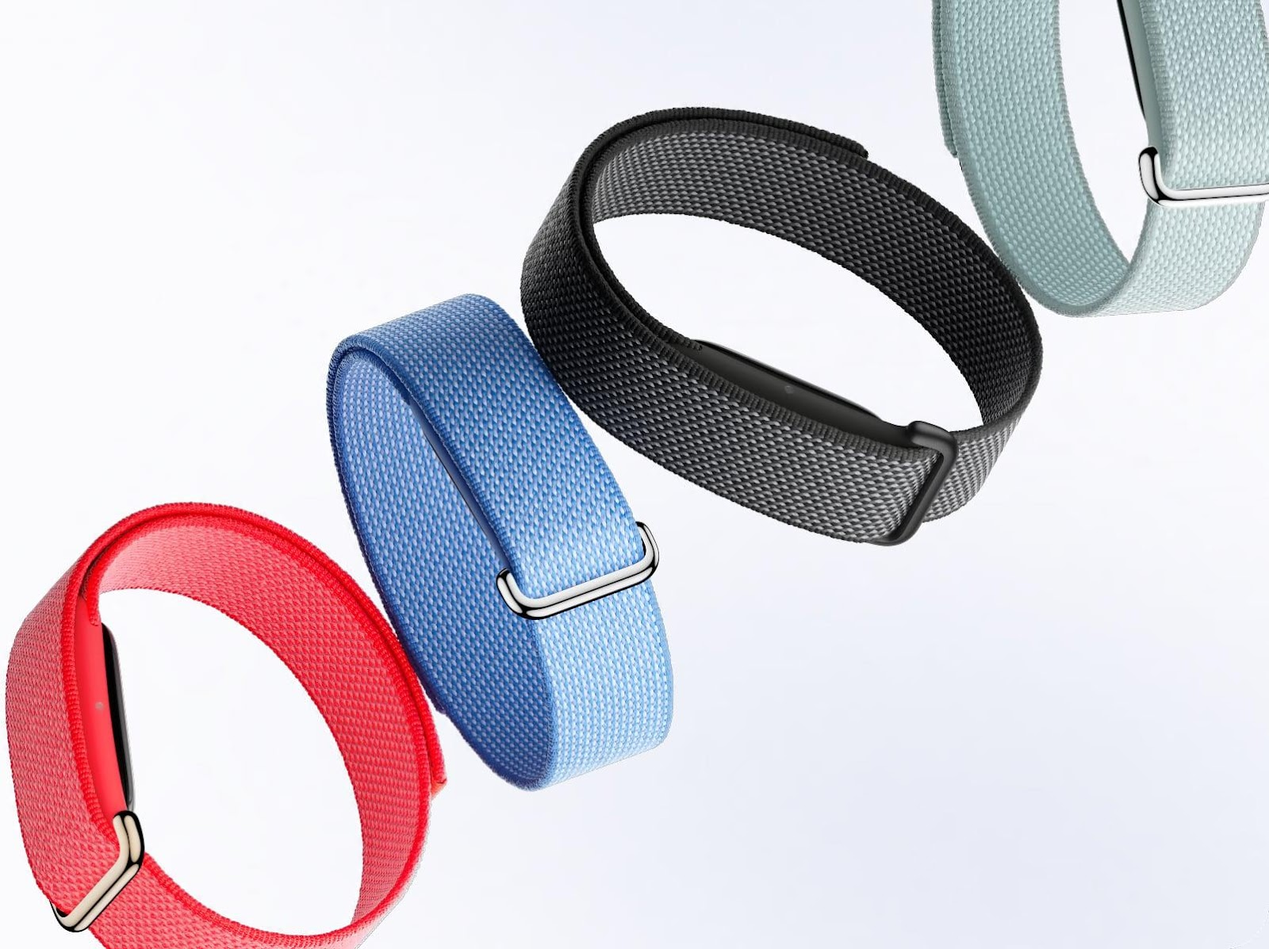
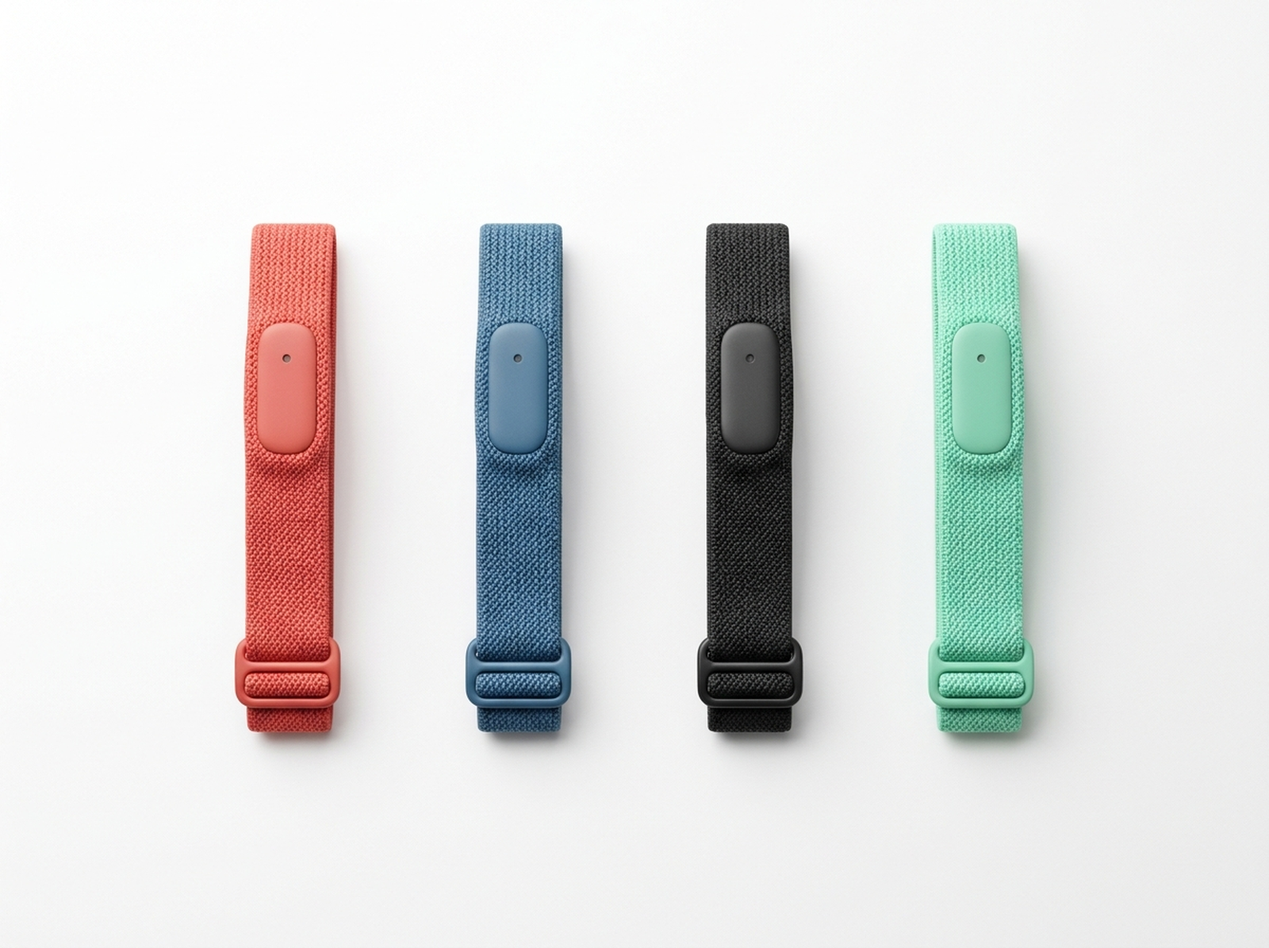
GA: no hardcoded Stitch IDs — STITCH_PROJECT_ID/STITCH_DESIGN_SYSTEM_ID become configure.sh placeholders, Antigravity bootstraps the design system from DESIGN.md; generated product render + neutral copy; fictional-retailer footer; configure.sh accepts repeated --set

diff --git a/templates/index.html b/templates/index.html
@@ -156,15 +156,15 @@
 <span class="text-label-sm font-label-sm text-on-surface">New &bull; Partner Forum 2026 Giveaway</span>
 </div>
 <h1 class="text-display-hero font-display-hero text-on-surface tracking-tight">Google Fitbit Air</h1>
-<p class="text-headline-sm font-headline-sm text-on-surface">Lighter gets mightier.</p>
-<p class="text-body-lg text-on-surface-variant">Comfortable 24/7 tracking, powerful sensors, and up to a week of battery, with personalized Google Health Coach built with Gemini.</p>
+<p class="text-headline-sm font-headline-sm text-on-surface">Screenless. Effortless.</p>
+<p class="text-body-lg text-on-surface-variant">A soft woven fabric band with no screen: all-day activity and sleep tracking, with insights in the companion app.</p>
 <div class="flex items-center gap-6 pt-2">
-<span class="text-headline-md font-headline-md text-on-surface">From $99.99</span>
+<span class="text-headline-md font-headline-md text-on-surface">Available in 4 colours</span>
 <button class="bg-primary hover:bg-[#1557B0] text-on-primary font-label-lg px-8 py-3 rounded-full transition-all duration-200 shadow-sm active:scale-98">Add to Bag</button>
 </div>
 </div>
 <div class="relative w-full md:w-1/2 h-[380px] rounded-xl overflow-hidden flex items-center justify-center bg-white">
-<img src="/static/images/fitbit-air.png" alt="Official Google Store photo of Google Fitbit Air woven fabric bands" class="w-full h-full object-cover"/>
+<img src="/static/images/fitbit-air.png" alt="Google Fitbit Air woven fabric bands (product render)" class="w-full h-full object-cover"/>
 </div>
 </section>
 <!-- Product Grid Section -->
@@ -185,15 +185,15 @@
 <!-- Product Card 0: Google Fitbit Air -->
 <div class="bg-surface-container-low rounded-xl border border-outline-variant p-6 flex flex-col justify-between hover:border-outline transition-all duration-200 group">
 <div class="h-64 rounded-lg overflow-hidden relative mb-6 flex items-center justify-center bg-white">
-<img src="/static/images/fitbit-air.png" alt="Official Google Store photo of Google Fitbit Air" class="absolute inset-0 w-full h-full object-cover group-hover:scale-105 transition-transform duration-300"/>
+<img src="/static/images/fitbit-air.png" alt="Google Fitbit Air (product render)" class="absolute inset-0 w-full h-full object-cover group-hover:scale-105 transition-transform duration-300"/>
 </div>
 <div class="flex flex-col gap-2">
 <span class="text-label-sm font-label-sm text-on-surface-variant">Fitness Tracker Band</span>
 <h3 class="text-headline-sm font-headline-sm text-on-surface">Google Fitbit Air</h3>
-<p class="text-body-sm text-on-surface-variant">Lighter gets mightier. Screenless 24/7 tracking and up to a week of battery, with Google Health Coach built with Gemini.</p>
+<p class="text-body-sm text-on-surface-variant">A screenless woven fabric band for all-day activity and sleep tracking.</p>
 </div>
 <div class="flex items-center justify-between mt-6 pt-4 border-t border-outline-variant">
-<span class="text-label-lg font-label-lg text-on-surface">From $99.99</span>
+<span class="text-label-lg font-label-lg text-on-surface">4 colours</span>
 <button class="bg-surface border border-outline-variant hover:border-primary text-primary px-4 py-2 rounded-full text-label-md font-label-md transition-all">Add to Bag</button>
 </div>
 </div>
@@ -280,7 +280,7 @@
 <div class="flex flex-col md:flex-row justify-between items-center w-full px-space-xl py-space-xl max-w-[1440px] mx-auto gap-6">
 <div class="flex flex-col md:flex-row items-center gap-6">
 <span class="text-headline-sm font-headline-sm font-bold text-primary dark:text-inverse-primary">AuraTech</span>
-<span class="text-body-sm text-on-surface-variant">© 2026 AuraTech Inc. All rights reserved.</span>
+<span class="text-body-sm text-on-surface-variant">© 2026 AuraTech Inc. All rights reserved. AuraTech is a fictional retailer created for a demo; product names are trademarks of their respective owners.</span>
 </div>
 <div class="flex flex-wrap justify-center gap-space-lg">
 <a class="text-body-sm text-on-surface-variant hover:text-primary transition-colors" href="#">Privacy Policy</a>

diff --git a/templates/poll.html b/templates/poll.html
@@ -279,7 +279,7 @@
 <div class="flex flex-col md:flex-row justify-between items-center w-full px-space-xl py-space-xl max-w-[1440px] mx-auto gap-4">
 <div class="flex flex-col md:flex-row items-center gap-4 text-center md:text-left">
 <span class="text-headline-sm font-headline-sm font-bold text-primary">AuraTech</span>
-<span class="text-body-sm font-body-sm text-on-surface-variant">© 2026 AuraTech Inc. All rights reserved.</span>
+<span class="text-body-sm font-body-sm text-on-surface-variant">© 2026 AuraTech Inc. All rights reserved. AuraTech is a fictional retailer created for a demo; product names are trademarks of their respective owners.</span>
 <span class="hidden md:inline text-outline-variant">|</span>
 <span id="live-event-feed" class="text-body-sm font-body-sm text-on-surface-variant italic">Scan the QR code or click any role card to cast a live vote.</span>
 </div>

diff --git a/templates/vote.html b/templates/vote.html
@@ -94,7 +94,7 @@
 
 <footer class="bg-surface-container-low border-t border-outline-variant py-4 px-5 text-center text-xs text-on-surface-variant">
   <div class="max-w-[640px] mx-auto flex items-center justify-between">
-    <span>© 2026 AuraTech Inc.</span>
+    <span>© 2026 AuraTech Inc. · fictional retailer (demo)</span>
     <span id="footer-total-votes" class="font-semibold text-primary">0 total votes</span>
   </div>
 </footer>

diff --git a/.agent/rules/auratech-architecture.md b/.agent/rules/auratech-architecture.md
@@ -1,16 +1,18 @@
 # AuraTech Workspace Architecture, Jira Lifecycle & Speed Execution Rules
 
 ## 0. Placeholders & Credentials Policy (READ FIRST)
-- This repository ships WITHOUT personal information. The only user-specific value is the placeholder `<YOUR_GCP_PROJECT_ID>` (set with `./configure.sh`).
-- **Stitch needs NO configuration**: this repository uses the shared Stitch project `11024850840388252926` with design system `assets/e0fecde15a2549a9b793168efec1fa4f` (AuraTech Minimal Hardware). Never create a new Stitch project or design system and never ask the user for Stitch IDs; only the Stitch API key lives in the user's local `mcp_config.json` (README Step 2).
-- **Stitch hard-stop (no silent fallback)**: before `generate_screen_from_text`, run the pre-flight `get_project` with `name: "projects/11024850840388252926"`. If it (or the generation) fails with *permission denied* / *not found*, STOP immediately and tell the user: (a) run `git pull` (a stale checkout may carry an old project ID) and (b) make sure the Google account that created the Stitch API key in `mcp_config.json` has access to the shared project (README → Troubleshooting). NEVER call `create_project`, NEVER use `list_projects` to pick another project, NEVER generate in any `projectId` other than `11024850840388252926`, even if the user says "just continue" — ask them to fix access first.
+- This repository ships WITHOUT personal information. The user-specific values are the `<YOUR_...>` placeholders for `GCP_PROJECT_ID`, `STITCH_PROJECT_ID` and `STITCH_DESIGN_SYSTEM_ID` (filled by `./configure.sh`, stored in `~/.auratech/`, never committed).
+- **Stitch = the user's OWN project**: `<YOUR_STITCH_PROJECT_ID>` is the Stitch project the user created in the Stitch UI (README Step 2). Never ask for or use anybody else's project. Only the Stitch API key lives in the user's local `mcp_config.json`.
+- **Stitch design system bootstrap (first run only)**: if `STITCH_DESIGN_SYSTEM_ID` is not set yet (the `designSystem` value in Section 1 still reads as an unfilled `<YOUR_...>` placeholder / `./configure.sh --show` says `<empty>`), create it from the repository's `DESIGN.md` before any screen generation: (1) `upload_design_md` with `projectId` = `<YOUR_STITCH_PROJECT_ID>` and `designMdBase64` = base64 of `DESIGN.md`; (2) `create_design_system_from_design_md` with the `selectedScreenInstance` returned by step 1; (3) read the new design system id (`assets/...`) from the response or `get_project`, save it with `./configure.sh --set STITCH_DESIGN_SYSTEM_ID=assets/...`, and continue with the filled value. Then, if the project has no screens yet, generate the two baseline context screens with `generate_screen_from_text` (design system = the new id, `deviceType` `DESKTOP`): *"AuraTech storefront: header `AuraTech` wordmark + nav Store | Fitbit | Wearables | Accessories | Live Role Poll | Support, hero for Google Fitbit Air, 3-column product grid, minimal footer"* and *"AuraTech Live Role Poll: same header, PARTNER FORUM 2026 eyebrow, QR card, horizontal bar results, minimal footer"*. Never call `create_project` and never create a second design system once one is saved.
+- **Stitch hard-stop (no silent fallback)**: before `generate_screen_from_text`, run the pre-flight `get_project` with `name: "projects/<YOUR_STITCH_PROJECT_ID>"`. If it (or the generation) fails with *permission denied* / *not found*, STOP immediately and tell the user: (a) run `git pull` (a stale checkout may carry an old project ID) and (b) make sure `STITCH_PROJECT_ID` (`./configure.sh --show`) is the project of the SAME Google account that created the Stitch API key in `mcp_config.json` (README → Troubleshooting). NEVER call `create_project`, NEVER use `list_projects` to pick another project, NEVER generate in any `projectId` other than `<YOUR_STITCH_PROJECT_ID>`, even if the user says "just continue" — ask them to fix access first.
 - **Jira needs NO configuration**: the user's Jira MCP is already connected in Antigravity. `{TICKET_KEY}` below is NOT a placeholder to fill; it is the key of the Jira ticket you discover at runtime (Section 2). Never ask the user for a Jira project key or ticket key.
-- Before using any of them, check whether it is still an unfilled `<YOUR_...>` placeholder. If it is, STOP and ask the user for their own value, pointing to README Step 4 (Google Cloud). Never invent IDs. Once the user provides it, save it with `./configure.sh --set GCP_PROJECT_ID=<id>`. This stores the value outside the repo (`~/.auratech/`) and fills `.agent/rules/`, `.agent/skills/`, the `Dockerfile` and the scripts. Do not hand-edit placeholders and never commit the filled values.
+- Before using any of them, check whether it is still an unfilled `<YOUR_...>` placeholder. If it is, STOP and ask the user for their own value, pointing to README Step 2 (Stitch) or Step 4 (Google Cloud) — except `<YOUR_STITCH_DESIGN_SYSTEM_ID>`, which you bootstrap yourself (above). Never invent IDs. Once the user provides it, save it with `./configure.sh --set GCP_PROJECT_ID=<id>`. This stores the value outside the repo (`~/.auratech/`) and fills `.agent/rules/`, `.agent/skills/`, the `Dockerfile` and the scripts. Do not hand-edit placeholders and never commit the filled values.
 - NEVER write credentials into the repository: no Jira/Atlassian tokens, no Stitch API keys, no OAuth tokens, no personal emails or account names. Credentials live only in the user's local Antigravity `mcp_config.json` and in `gcloud`. If a connection fails, give the user the how-to from the README and ask them to fix it with their own account.
 
 ### README bootstrap tasks (when the user asks for them)
 - **Step 1 — Create the Jira ticket** (only if the user asks): list the user's Jira projects via the Jira MCP; if there is exactly one use it, otherwise ask which one. Create an issue with the Summary and Description of `docs/JIRA_TICKET.md`, assign it to the current user (status To Do). Nothing to save: the ticket is discovered at runtime.
-- **Step 5 — Baseline deploy**: run `./deploy.sh` and `./mark-baseline.sh`, then verify `/` 200, `/poll` 200, `/campaign` 404. The Stitch project is already configured (shared); do NOT create one.
+- **Step 2 — Stitch bootstrap** (when the user says *"bootstrap my Stitch project"* or on the first ticket run): apply the design-system bootstrap above.
+- **Step 5 — Baseline deploy**: run `./deploy.sh` and `./mark-baseline.sh`, then verify `/` 200, `/poll` 200, `/campaign` 404.
 
 ---
 
@@ -20,8 +22,8 @@ You are working in the **AuraTech — Official Google Hardware Partner** web app
 - **Google Cloud project**: `<YOUR_GCP_PROJECT_ID>`
 - **Jira**: via the user's Jira MCP (no config). Ticket `{TICKET_KEY}` = the assigned ticket whose summary contains "Google Fitbit Air Challenge" (created from `docs/JIRA_TICKET.md`)
 - **Cloud Run Service**: `partner-forum-2026` (deployed via `./deploy.sh`)
-- **Google Stitch `projectId` (for this repository)**: `"11024850840388252926"`
-- **Google Stitch `designSystem` (for this repository)**: `"assets/e0fecde15a2549a9b793168efec1fa4f"` (AuraTech Minimal Hardware)
+- **Google Stitch `projectId` (for this repository)**: `"<YOUR_STITCH_PROJECT_ID>"`
+- **Google Stitch `designSystem` (for this repository)**: `"<YOUR_STITCH_DESIGN_SYSTEM_ID>"`
 - **Google Stitch `modelId`**: `"GEMINI_3_8_FLASH"`
 - **`main.py`**: Core FastAPI server hosting the Storefront (`GET /`) and Live Audience Role Poll (`GET /poll`, `GET /vote`, `GET /admin`, `GET /api/qr`). Automatically mounts `campaign_router.py` if present.
 - **`templates/index.html`**: AuraTech Google Hardware Storefront (`Store | Fitbit | Wearables | Accessories | Live Role Poll | Support`).
@@ -43,10 +45,10 @@ Whenever the user asks you to work on the assigned Jira ticket (`{TICKET_KEY}` /
 ### Phase 1: Move Jira to `In Progress`, Design in Google Stitch & Pause for Visual Approval (`frontend-skill` — Phase 1)
 1. **Transition Jira Ticket to `In Progress`**: Call the Atlassian / Jira MCP (`getTransitionsForJiraIssue` -> `transitionJiraIssue`) to move `{TICKET_KEY}` to **`In Progress`**.
 2. Read `.agent/skills/frontend-skill/SKILL.md` and inspect the `<head>`, `<header>`, and `<footer>` of `templates/poll.html` and `templates/index.html`.
-3. **Pre-flight**: call the Stitch MCP `get_project` with `name: "projects/11024850840388252926"` and confirm the response lists design system `assets/e0fecde15a2549a9b793168efec1fa4f`. On any error → STOP and apply the *Stitch hard-stop* rule from Section 0 (no `create_project`, no other `projectId`).
+3. **Pre-flight**: call the Stitch MCP `get_project` with `name: "projects/<YOUR_STITCH_PROJECT_ID>"` and confirm the response lists design system `<YOUR_STITCH_DESIGN_SYSTEM_ID>`. On any error → STOP and apply the *Stitch hard-stop* rule from Section 0 (no `create_project`, no other `projectId`).
 4. Call the **Google Stitch MCP** tool `generate_screen_from_text` using:
-   - `projectId`: `"11024850840388252926"`
-   - `designSystem`: `"assets/e0fecde15a2549a9b793168efec1fa4f"`
+   - `projectId`: `"<YOUR_STITCH_PROJECT_ID>"`
+   - `designSystem`: `"<YOUR_STITCH_DESIGN_SYSTEM_ID>"`
    - `deviceType`: `"DESKTOP"`
    - `modelId`: `"GEMINI_3_8_FLASH"`
    - Exact prompt from `.agent/skills/frontend-skill/SKILL.md` (preserving the exact AuraTech TopNavBar: `Store | Fitbit | Wearables | Accessories | Live Role Poll | Fitbit Campaign | Support` with NO dark top announcement bar and NO `"Catalog"` or `"Community Poll"` links).
@@ -57,7 +59,7 @@ Whenever the user asks you to work on the assigned Jira ticket (`{TICKET_KEY}` /
 Once the user approves the Stitch design proposal:
 1. **`backend-skill`** (`.agent/skills/backend-skill/SKILL.md`):
    - Create `campaign_router.py` in a single `write_to_file` call using the latest **`gemini-3.1-flash-image`** (Nano Banana 2) via non-blocking async `await client.aio.models.generate_content(...)` with an `asyncio.Semaphore(15)` guard.
-   - **Official product reference (Fitbit Air fidelity)**: pass `static/images/fitbit-air.png` (official Google Store photo) as `types.Part.from_bytes(..., mime_type="image/png")` together with the text prompt on EVERY generation, plus the fixed fidelity instruction (if Fitbit Air appears it must be exactly the reference: screenless woven fabric band, same shape and buckle, never a screen/watch face). Do NOT block or filter user prompts.
+   - **Official product reference (Fitbit Air fidelity)**: pass `static/images/fitbit-air.png` (the product reference render shipped in the repo — a generated image, not a Google asset) as `types.Part.from_bytes(..., mime_type="image/png")` together with the text prompt on EVERY generation, plus the fixed fidelity instruction (if Fitbit Air appears it must be exactly the reference: screenless woven fabric band, same shape and buckle, never a screen/watch face). Do NOT block or filter user prompts.
    - **Voting rules**: one ACTIVE vote per browser (`voterId`; re-voting moves the vote), and **no self-voting**: `generate` stores the creator's `voterId` as `creatorId`, `vote` returns 400 when the voter is the creator, `state` exposes only a boolean `isMine` (never `creatorId`). UI: `Your campaign` badge + disabled vote button on own cards.
    - **NO external database (no Firestore / no SQL)**: Store all state in Python memory (`CAMPAIGN_SUBMISSIONS`, `CAMPAIGN_VOTES`, `IMAGE_BLOBS`), starting at **0 submissions and 0 votes**, serving PNG bytes via `GET /api/campaign/images/{image_id}.png`.
 2. **`frontend-skill` (Phase 2)** (`.agent/skills/frontend-skill/SKILL.md`):
@@ -65,7 +67,7 @@ Once the user approves the Stitch design proposal:
    - Build `templates/campaign.html` using **100% of the exact `<head>`, `<header>` (TopNavBar), and `<footer>` copied verbatim from `templates/poll.html`** (with `Fitbit Campaign` active in `<nav>`) combined with the **`<main>` layout generated by Stitch**, wired to the real FastAPI endpoints (`/api/qr?format=png`, `POST /api/campaign/generate`, `GET /api/campaign/state`, `POST /api/campaign/vote`).
    - **Form Fields Rule (`Name` & `Company` — NO Placeholders)**: The image generation form MUST include two separate input fields: **Name** and **Company**, both strictly **WITHOUT placeholder text** (`placeholder` omitted or empty `""`, no pre-filled sample text).
    - **No idea-seeding anywhere**: no suggestion chips, no example prompts, no sample scenes, no placeholder text and no helper examples in the prompt studio (Name, Company and the campaign-scene textarea are completely blank). Attendees must come up with their own idea. The only image on the form is the official Fitbit Air product reference thumbnail. Leaderboard cards DO keep each submission's prompt caption.
-   - **Google Fitbit Air Challenge content**: title "Google Fitbit Air Challenge", subtitle "Create the next campaign visual for Google Fitbit Air. The most-voted image wins a Google Fitbit Air.", NO scene chips and NO device selector (the product is always Google Fitbit Air). Only official Google Store facts; never invent specs, colours or prices.
+   - **Google Fitbit Air Challenge content**: title "Google Fitbit Air Challenge", subtitle "Create the next campaign visual for Google Fitbit Air. The most-voted image wins a Google Fitbit Air.", NO scene chips and NO device selector (the product is always Google Fitbit Air). Keep product copy neutral and generic; never invent specs, colours or prices and never quote marketing claims.
    - Add ONLY the single `<a class="text-on-surface-variant hover:text-primary transition-colors text-label-md font-label-md" href="/campaign">Fitbit Campaign</a>` link inside `<nav>` right after `Live Role Poll` in `templates/index.html` and `templates/poll.html`, plus the hero CTA `Join the Fitbit Air Challenge` (→ `/campaign`) right after the hero `Add to Bag` button in `templates/index.html`. **NEVER alter anything else in `templates/index.html` or `templates/poll.html`.**
 3. **`deploy-skill`** (`.agent/skills/deploy-skill/SKILL.md`):
    - **NEVER create a `.venv` or run `pip install`** (all packages are pre-installed).

diff --git a/README.md b/README.md
@@ -8,9 +8,9 @@ Brownfield demo for **Google Antigravity**. You start from an existing web app: 
 
 1. **Developer → Antigravity**: the 4 demo prompts drive the whole session.
 2. **Antigravity → Jira Cloud** (Atlassian Rovo MCP): finds your *Google Fitbit Air Challenge* ticket and moves it **To Do → In Progress → Done**.
-3. **Antigravity → Google Stitch** (Stitch MCP): generates the campaign screen from the shared AuraTech design system and waits for your approval.
+3. **Antigravity → Google Stitch** (Stitch MCP): generates the campaign screen from the AuraTech design system in **your** Stitch project and waits for your approval.
 4. **`./deploy.sh` → Cloud Build → Cloud Run**: `gcloud run deploy --source` on the pre-cached base image from Artifact Registry; a new revision serves the Storefront `/`, the Live Role Poll `/poll` and the new `/campaign` (baseline tag + `./rollback.sh`).
-5. **Fitbit Air Challenge → Vertex AI Nano Banana** (`gemini-3.1-flash-image`): generates each attendee's campaign image from the official Fitbit Air reference photo, authenticated with the Cloud Run service identity.
+5. **Fitbit Air Challenge → Vertex AI Nano Banana** (`gemini-3.1-flash-image`): generates each attendee's campaign image from the Fitbit Air reference render, authenticated with the Cloud Run service identity.
 6. **Audience phones → Cloud Run** over HTTPS after scanning the QR on the stage screen: generate, vote, live leaderboard.
 
 📎 Session takeaways: [Partner Forum Platform Takeaways](https://docs.google.com/presentation/d/1N0hGiLZYCsasegMNkfARWSR2T4soOZ_k/edit)
@@ -21,12 +21,16 @@ Brownfield demo for **Google Antigravity**. You start from an existing web app: 
 > | Placeholder | What it is | Where you get it |
 > |---|---|---|
 > | `<YOUR_GCP_PROJECT_ID>` | Your Google Cloud project ID | [Cloud console](https://console.cloud.google.com/) → project picker |
+> | `<YOUR_STITCH_PROJECT_ID>` | Your own Stitch project | [stitch.withgoogle.com](https://stitch.withgoogle.com/) → **New project** → the digits in the URL `…/projects/<ID>` (Step 2) |
+> | `<YOUR_STITCH_DESIGN_SYSTEM_ID>` | The AuraTech design system inside that project | **Leave empty**: Antigravity creates it from `DESIGN.md` on the first run and saves it (`assets/…`) |
 >
-> **One command:** `./configure.sh` asks for your GCP project ID, stores it **outside the repo** in `~/.auratech/<repo>.env` and fills the placeholder. Re-run it any time; after a `git reset` it refills without questions.
+> **One command:** `./configure.sh` asks for your GCP project ID and Stitch project ID, stores them **outside the repo** in `~/.auratech/<repo>.env` and fills the placeholders. Re-run it any time; after a `git reset` it refills without questions.
 >
-> **Jira and Stitch need no configuration**: Antigravity finds your ticket through your Jira MCP, and the repo already points to the shared Stitch project [`11024850840388252926`](https://stitch.withgoogle.com/projects/11024850840388252926) with its design system `assets/e0fecde15a2549a9b793168efec1fa4f` (AuraTech Minimal Hardware). Ask the owner to share that Stitch project with your Google account.
+> **Jira needs no configuration**: Antigravity finds your ticket through your Jira MCP. **Stitch** is your own project (Step 2); nobody shares anything with you.
 >
 > Antigravity is instructed to **ask you** for any placeholder that is still empty. It never stores tokens or API keys in the repo.
+
+> **Demo code, not a product.** AuraTech is a fictional retailer. This is example code for a live demo: in-memory state, a public Cloud Run service, and **unauthenticated reset endpoints** (`POST /api/campaign/reset`, `POST /api/admin/reset-votes`) — anyone with the URL can wipe the boards. Do not use it in production.
 
 ## Prerequisites
 - [Google Antigravity](https://antigravity.google/) installed.
@@ -73,7 +77,8 @@ Official guide: [Get started with the Atlassian Rovo MCP server](https://support
    }
    ```
    Replace `<YOUR_STITCH_API_KEY>` **only in your local `mcp_config.json`**. Never put it in this repo.
-3. Refresh the MCP servers and test: *"List my Stitch projects."* You should see the shared project `11024850840388252926` (ask the owner to share it with you if not).
+3. Still in Stitch, create a project for this demo (**New project**, any name, e.g. *AuraTech*) and copy the digits from its URL `https://stitch.withgoogle.com/projects/<ID>` → `./configure.sh` (or `./configure.sh --set STITCH_PROJECT_ID=<ID>`). Leave the design system empty: Antigravity creates it from `DESIGN.md` on the first run.
+4. Refresh the MCP servers and test: *"List my Stitch projects."* Your new project must be in the list (the API key and the project must belong to the same Google account).
 
 Official guide: [Stitch MCP setup](https://stitch.withgoogle.com/docs/mcp/setup).
 
@@ -108,7 +113,7 @@ Do not continue until `check-cloud.sh` prints **🎉 All checks passed**.
 Useful docs: [Cloud Run deploy from source](https://cloud.google.com/run/docs/deploying-source-code) · [Public access / invoker IAM check](https://cloud.google.com/run/docs/securing/managing-access#invoker_check) · [Vertex AI image generation](https://cloud.google.com/vertex-ai/generative-ai/docs/image/overview).
 
 ## Step 5: Deploy the existing webpage to Cloud Run (baseline)
-The existing storefront and Live Role Poll already live as screens in the shared Stitch project `11024850840388252926`, with the AuraTech design system Antigravity will reuse for the new feature. Nothing to create in Stitch. Ask Antigravity:
+Optional but recommended once: *"Bootstrap my Stitch project"* — Antigravity uploads `DESIGN.md`, creates the AuraTech design system in your Stitch project, saves its id with `./configure.sh --set STITCH_DESIGN_SYSTEM_ID=…`, and generates the two baseline context screens (storefront, Live Role Poll). If you skip it, it happens automatically at the start of the ticket run. Then ask Antigravity:
 > *"Deploy the existing web with `./deploy.sh` and mark it as the baseline with `./mark-baseline.sh`."*
 
 Check the live URL printed by `deploy.sh`:
@@ -124,7 +129,7 @@ In Antigravity:
 
 Antigravity finds your "Google Fitbit Air Challenge" ticket, summarises it and asks whether to start. Say yes. It follows the 3-phase lifecycle in `.agent/rules/`:
 1. Moves the ticket to **In Progress**, generates the *Google Fitbit Air Challenge* screen in Stitch and **stops for your approval** (Step 7).
-2. After approval: builds `campaign_router.py` (Nano Banana with the official Fitbit Air reference image) and `templates/campaign.html`, deploys with `./deploy.sh`, and asks whether you're happy and want to close the ticket.
+2. After approval: builds `campaign_router.py` (Nano Banana with the Fitbit Air reference render) and `templates/campaign.html`, deploys with `./deploy.sh`, and asks whether you're happy and want to close the ticket.
 3. On your confirmation: comments the live URL on the ticket and moves it to **Done**.
 
 ## Step 7: Approve the Stitch UI
@@ -156,7 +161,7 @@ Then two manual steps (~20 s):
 1. **Jira**: move the *Google Fitbit Air Challenge* ticket back to **To Do** and delete the live-URL comment Antigravity left in Phase 3.
 2. **Antigravity**: start a **new chat** (same workspace). Stage screen tab: `<SERVICE_URL>/poll`.
 
-Optional: the Stitch screen generated in the previous session stays in the shared project; it does no harm (Antigravity generates a fresh one each run), delete it from the Stitch UI only if you want a tidy project.
+Optional: the Stitch screen generated in the previous session stays in your project; it does no harm (Antigravity generates a fresh one each run), delete it from the Stitch UI only if you want a tidy project.
 
 **Resetting the live boards only (presenter, no buttons in the UI on purpose):**
 ```bash
@@ -165,20 +170,20 @@ curl -s -X POST "$SERVICE_URL/api/admin/reset-votes"    # Live Role Poll back to
 curl -s -X POST "$SERVICE_URL/api/campaign/reset"       # Fitbit Air Challenge back to 0 images / 0 votes
 ```
 
-## Troubleshooting: Antigravity generated the screen in another Stitch project
-Symptom: the Stitch proposal shows `projects/<something else>/screens/...` instead of `projects/11024850840388252926/...`, or you cannot find the screen in the Stitch UI.
-Cause: the Stitch API key in `mcp_config.json` could not open `11024850840388252926` (stale checkout with an old project ID, or the key was generated under a Google account the project is not shared with), and Antigravity fell back to a new project.
-Fix (2 minutes), then start a **new chat**:
-1. `git pull` (or `./reset-demo.sh`) so `.agent/` carries the current project ID `11024850840388252926`.
-2. In Antigravity ask: *"List my Stitch projects."* → `11024850840388252926` must be in the list. If not: open [stitch.withgoogle.com](https://stitch.withgoogle.com) with the account the project is shared with, regenerate the API key there, paste it into `mcp_config.json`, refresh MCP servers, repeat.
-3. The repo rules now hard-stop instead of falling back: Antigravity will refuse to `create_project` or use another `projectId`.
+## Troubleshooting: Stitch pre-flight fails / screen generated in another project
+Symptom: Antigravity stops with *permission denied / not found* on `get_project`, or the proposal shows `projects/<something else>/screens/...`.
+Cause: `STITCH_PROJECT_ID` is empty, wrong, or belongs to a different Google account than the Stitch API key in `mcp_config.json`.
+Fix, then start a **new chat**:
+1. `./configure.sh --show` → `STITCH_PROJECT_ID` must be the digits of your project URL; fix with `./configure.sh --set STITCH_PROJECT_ID=<ID>`.
+2. In Antigravity ask: *"List my Stitch projects."* → your project must be in the list. If not, regenerate the API key in the Stitch UI **with the account that owns the project** and paste it into `mcp_config.json`.
+3. The repo rules hard-stop instead of falling back: Antigravity will refuse to `create_project` or use another `projectId`.
 
 ## Repository map
 | File | Purpose |
 |---|---|
 | `main.py` | FastAPI: storefront `/`, Live Role Poll `/poll` `/vote` `/admin`, QR `/api/qr`; auto-mounts `campaign_router.py` if present |
-| `templates/`, `static/` | Existing UI (`static/images/fitbit-air.png` = official Google Store photo, also the Nano Banana reference) |
-| `DESIGN.md` | AuraTech design system (reference copy of the one in the shared Stitch project) |
+| `templates/`, `static/` | Existing UI (`static/images/fitbit-air.png` = generated product render, also the Nano Banana reference) |
+| `DESIGN.md` | AuraTech design system — the source Antigravity uploads to **your** Stitch project to create the design system |
 | `docs/JIRA_TICKET.md` | The ticket Antigravity implements |
 | `setup.sh`, `Dockerfile.base`, `cloudbuild.base.yaml` | One-time GCP project setup + pre-cached base image (deploys in ~15–20 s) |
 | `deploy.sh`, `mark-baseline.sh`, `rollback.sh`, `reset-demo.sh` | Deploy, tag the clean baseline, restore it, full between-sessions reset |

diff --git a/.agent/skills/frontend-skill/SKILL.md b/.agent/skills/frontend-skill/SKILL.md
@@ -19,15 +19,16 @@ Use this skill whenever designing and building the frontend for the **Fitbit Emp
 ### Step 1.1: Inspect `templates/poll.html` and `templates/index.html`
 Read `templates/poll.html` (lines 1–165 and 275–295) and `templates/index.html` (lines 115–150) so you have the exact AuraTech `<head>` Tailwind configuration, `<header>` TopNavBar structure, and `<footer>`.
 
-### Step 1.2: Pre-flight — verify access to the shared Stitch project
-Call `get_project` with `name: "projects/11024850840388252926"`. The response must succeed and list the design system `assets/e0fecde15a2549a9b793168efec1fa4f`.
-If it fails (*permission denied*, *not found*): **STOP**. Tell the user to `git pull` (stale project ID) and to verify that the Google account that generated the Stitch API key in `mcp_config.json` can open the shared project (README → Troubleshooting). Do NOT call `create_project`, do NOT pick another project via `list_projects`, do NOT generate anywhere other than `11024850840388252926`.
+### Step 1.2: Pre-flight — verify the user's Stitch project and design system
+If `STITCH_DESIGN_SYSTEM_ID` is not set yet (the design system value below still reads as an unfilled `<YOUR_...>` placeholder), run the design-system bootstrap from `.agent/rules/auratech-architecture.md` Section 0 first (upload `DESIGN.md`, create the design system, save it with `./configure.sh --set STITCH_DESIGN_SYSTEM_ID=...`).
+Call `get_project` with `name: "projects/<YOUR_STITCH_PROJECT_ID>"`. The response must succeed and list the design system `<YOUR_STITCH_DESIGN_SYSTEM_ID>`.
+If it fails (*permission denied*, *not found*): **STOP**. Tell the user to check `./configure.sh --show` (`STITCH_PROJECT_ID` must be a project of the same Google account that generated the Stitch API key in `mcp_config.json`, README → Troubleshooting). Do NOT call `create_project`, do NOT pick another project via `list_projects`, do NOT generate anywhere other than `<YOUR_STITCH_PROJECT_ID>`.
 
 ### Step 1.3: Call Google Stitch MCP (`generate_screen_from_text`)
 Call `generate_screen_from_text` using the Stitch project for this repository:
 
-- **`projectId`**: `"11024850840388252926"`
-- **`designSystem`**: `"assets/e0fecde15a2549a9b793168efec1fa4f"` (AuraTech Minimal Hardware)
+- **`projectId`**: `"<YOUR_STITCH_PROJECT_ID>"`
+- **`designSystem`**: `"<YOUR_STITCH_DESIGN_SYSTEM_ID>"`
 - **`deviceType`**: `"DESKTOP"`
 - **`modelId`**: `"GEMINI_3_8_FLASH"`
 - **`prompt`**:
@@ -110,5 +111,5 @@ Use `replace_file_content` to insert ONLY the single `"Fitbit Campaign"` link ri
   ```html
   <a class="border border-primary text-primary hover:bg-primary hover:text-on-primary font-label-lg px-8 py-3 rounded-full transition-all duration-200" href="/campaign">Join the Fitbit Air Challenge</a>
   ```
-- **Product fidelity**: The official product image is `static/images/fitbit-air.png` (real Google Store photo). Use it for the "Official product reference" thumbnail in `campaign.html`. Never replace it with a generated image and never invent Fitbit Air specs, colours or prices (only: "Lighter gets mightier", 24/7 tracking, up to a week of battery, Google Health Coach built with Gemini, "From $99.99").
+- **Product fidelity**: the product reference image is `static/images/fitbit-air.png` (a generated render shipped in the repo). Use it for the "Official product reference" thumbnail in `campaign.html`. Never swap it for another image and never invent Fitbit Air specs, colours or prices — keep copy generic.
 - **STRICT BAN**: Do NOT change any other lines in `templates/index.html` or `templates/poll.html`!

diff --git a/docs/JIRA_TICKET.md b/docs/JIRA_TICKET.md
@@ -11,13 +11,13 @@ Launch the Google Fitbit Air Challenge — Campaign Studio & Real-Time Voting Le
 
 ## Description
 ### Context & Business Goal
-AuraTech (Official Google Hardware Partner) is launching the **Google Fitbit Air Challenge** for a live event with up to 300 concurrent attendees. Attendees scan a live QR code on the main stage screen, generate a campaign visual for Google Fitbit Air using Vertex AI Nano Banana (`gemini-3.1-flash-image`), and vote in real time. **The most-voted image wins a Google Fitbit Air.**
+AuraTech (a fictional Google hardware retailer) is launching the **Google Fitbit Air Challenge** for a live event with up to 300 concurrent attendees. Attendees scan a live QR code on the main stage screen, generate a campaign visual for Google Fitbit Air using Vertex AI Nano Banana (`gemini-3.1-flash-image`), and vote in real time. **The most-voted image wins a Google Fitbit Air.**
 
 ### Product Fidelity (Google Fitbit Air)
 - Page title "Google Fitbit Air Challenge"; subtitle "Create the next campaign visual for Google Fitbit Air. The most-voted image wins a Google Fitbit Air."
 - **No example prompts, suggestion chips, sample scenes or placeholder text anywhere**: attendees must come up with their own idea. No device selector either (the product is always Google Fitbit Air).
-- Every Nano Banana generation MUST receive the official Google Store photo `static/images/fitbit-air.png` as input reference image: if Fitbit Air appears it must be exactly that product (screenless woven fabric band, same shape and buckle; never a screen or watch face). Do not block user prompts.
-- Only official Google Store facts: "Lighter gets mightier", 24/7 tracking, up to a week of battery, Google Health Coach built with Gemini, "From $99.99".
+- Every Nano Banana generation MUST receive the product reference render `static/images/fitbit-air.png` as input reference image: if Fitbit Air appears it must be exactly that product (screenless woven fabric band, same shape and buckle; never a screen or watch face). Do not block user prompts.
+- Product copy stays neutral and generic: never invent specs, colours or prices and never quote marketing claims.
 
 ### Mandatory 3-Phase Execution Workflow (.agent/skills/)
 Follow `.agent/rules/auratech-architecture.md` and `.agent/skills/` in strict order:

diff --git a/.agent/skills/backend-skill/SKILL.md b/.agent/skills/backend-skill/SKILL.md
@@ -77,7 +77,7 @@ def _generate_fallback_png(prompt: str, author: str) -> bytes:
     return buf.getvalue()
 
 
-# Official Google Store photo of Google Fitbit Air, sent as reference image on EVERY generation
+# Product reference render of Google Fitbit Air (shipped in the repo), sent as reference image on EVERY generation
 REFERENCE_IMAGE_PATH = os.path.join("static", "images", "fitbit-air.png")
 try:
     with open(REFERENCE_IMAGE_PATH, "rb") as _f:
@@ -86,7 +86,7 @@ except OSError:
     REFERENCE_IMAGE_BYTES = b""
 
 FIDELITY_INSTRUCTION = (
-    "The attached image is the OFFICIAL Google Store product photo of Google Fitbit Air. "
+    "The attached image is the product reference for Google Fitbit Air. "
     "Whenever Google Fitbit Air appears in the generated image it MUST look exactly like the product in the "
     "reference image: a screenless woven fabric band with the same shape, texture, clasp and buckle. "
     "NEVER add a screen, display, watch face, digits or buttons to it and never invent a different Fitbit device. "
@@ -97,7 +97,7 @@ FIDELITY_INSTRUCTION = (
 async def _generate_fitbit_image_bytes(prompt: str, author: str) -> bytes:
     enhanced_prompt = (
         "Commercial marketing photography for the AuraTech Google Fitbit Air Challenge "
-        "(AuraTech is an official Google hardware partner). "
+        "(AuraTech is a fictional hardware retailer). "
         f"Campaign scene: {prompt}. Photorealistic, clean editorial lighting, 4:3 composition. "
         + FIDELITY_INSTRUCTION
     )
@@ -220,7 +220,7 @@ async def api_campaign_generate(request: Request):
         "name": name,
         "company": company,
         "author": author,
-        "creatorId": voter_id,  # internal only: enforces the no-self-vote rule
+        "creatorId": voter_id,  # server-side only (never returned by the API): enforces the no-self-vote rule
         "model": "gemini-3.1-flash-image",
         "imageUrl": f"/api/campaign/images/{sub_id}.png",
         "createdAt": int(time.time() * 1000),

diff --git a/DESIGN.md b/DESIGN.md
@@ -1,9 +1,9 @@
 # AuraTech Design System (DESIGN.md)
 
-Design system of the **AuraTech — Official Google Hardware Partner** storefront. Reference copy of the design system `assets/e0fecde15a2549a9b793168efec1fa4f` (AuraTech Minimal Hardware) already created in the shared Stitch project `11024850840388252926`, which Antigravity reuses so every new screen matches the existing web in `templates/`. You don't need to upload it.
+Design system of the **AuraTech — Official Google Hardware Partner** storefront. Source file for the Stitch design system: Antigravity uploads it to **your** Stitch project (`upload_design_md` → `create_design_system_from_design_md`) and saves the resulting id as `STITCH_DESIGN_SYSTEM_ID`.
 
 ## Brand & Tone
-- Minimalist, premium consumer-hardware retail (Google Store–like). Bright, airy, generous whitespace, soft 1px borders, no heavy shadows, no gradients.
+- Minimalist, premium consumer-hardware retail. Bright, airy, generous whitespace, soft 1px borders, no heavy shadows, no gradients.
 - Text wordmark "AuraTech" (primary blue, bold) on the left of the header. No icon badge, no top announcement bar.
 - Top navigation (exact order): Store · Fitbit · Wearables · Accessories · Live Role Poll · Support.
 
@@ -47,4 +47,4 @@ Design system of the **AuraTech — Official Google Hardware Partner** storefron
 - **Footer:** minimal, light, small links.
 
 ## Imagery
-- Real product photography only for real products (e.g. `static/images/fitbit-air.png` is the official Google Store photo of Google Fitbit Air). Never invent product details.
+- Product imagery: `static/images/fitbit-air.png` is a generated product render (not a Google asset); keep product visuals clean and neutral. Never invent product details.
